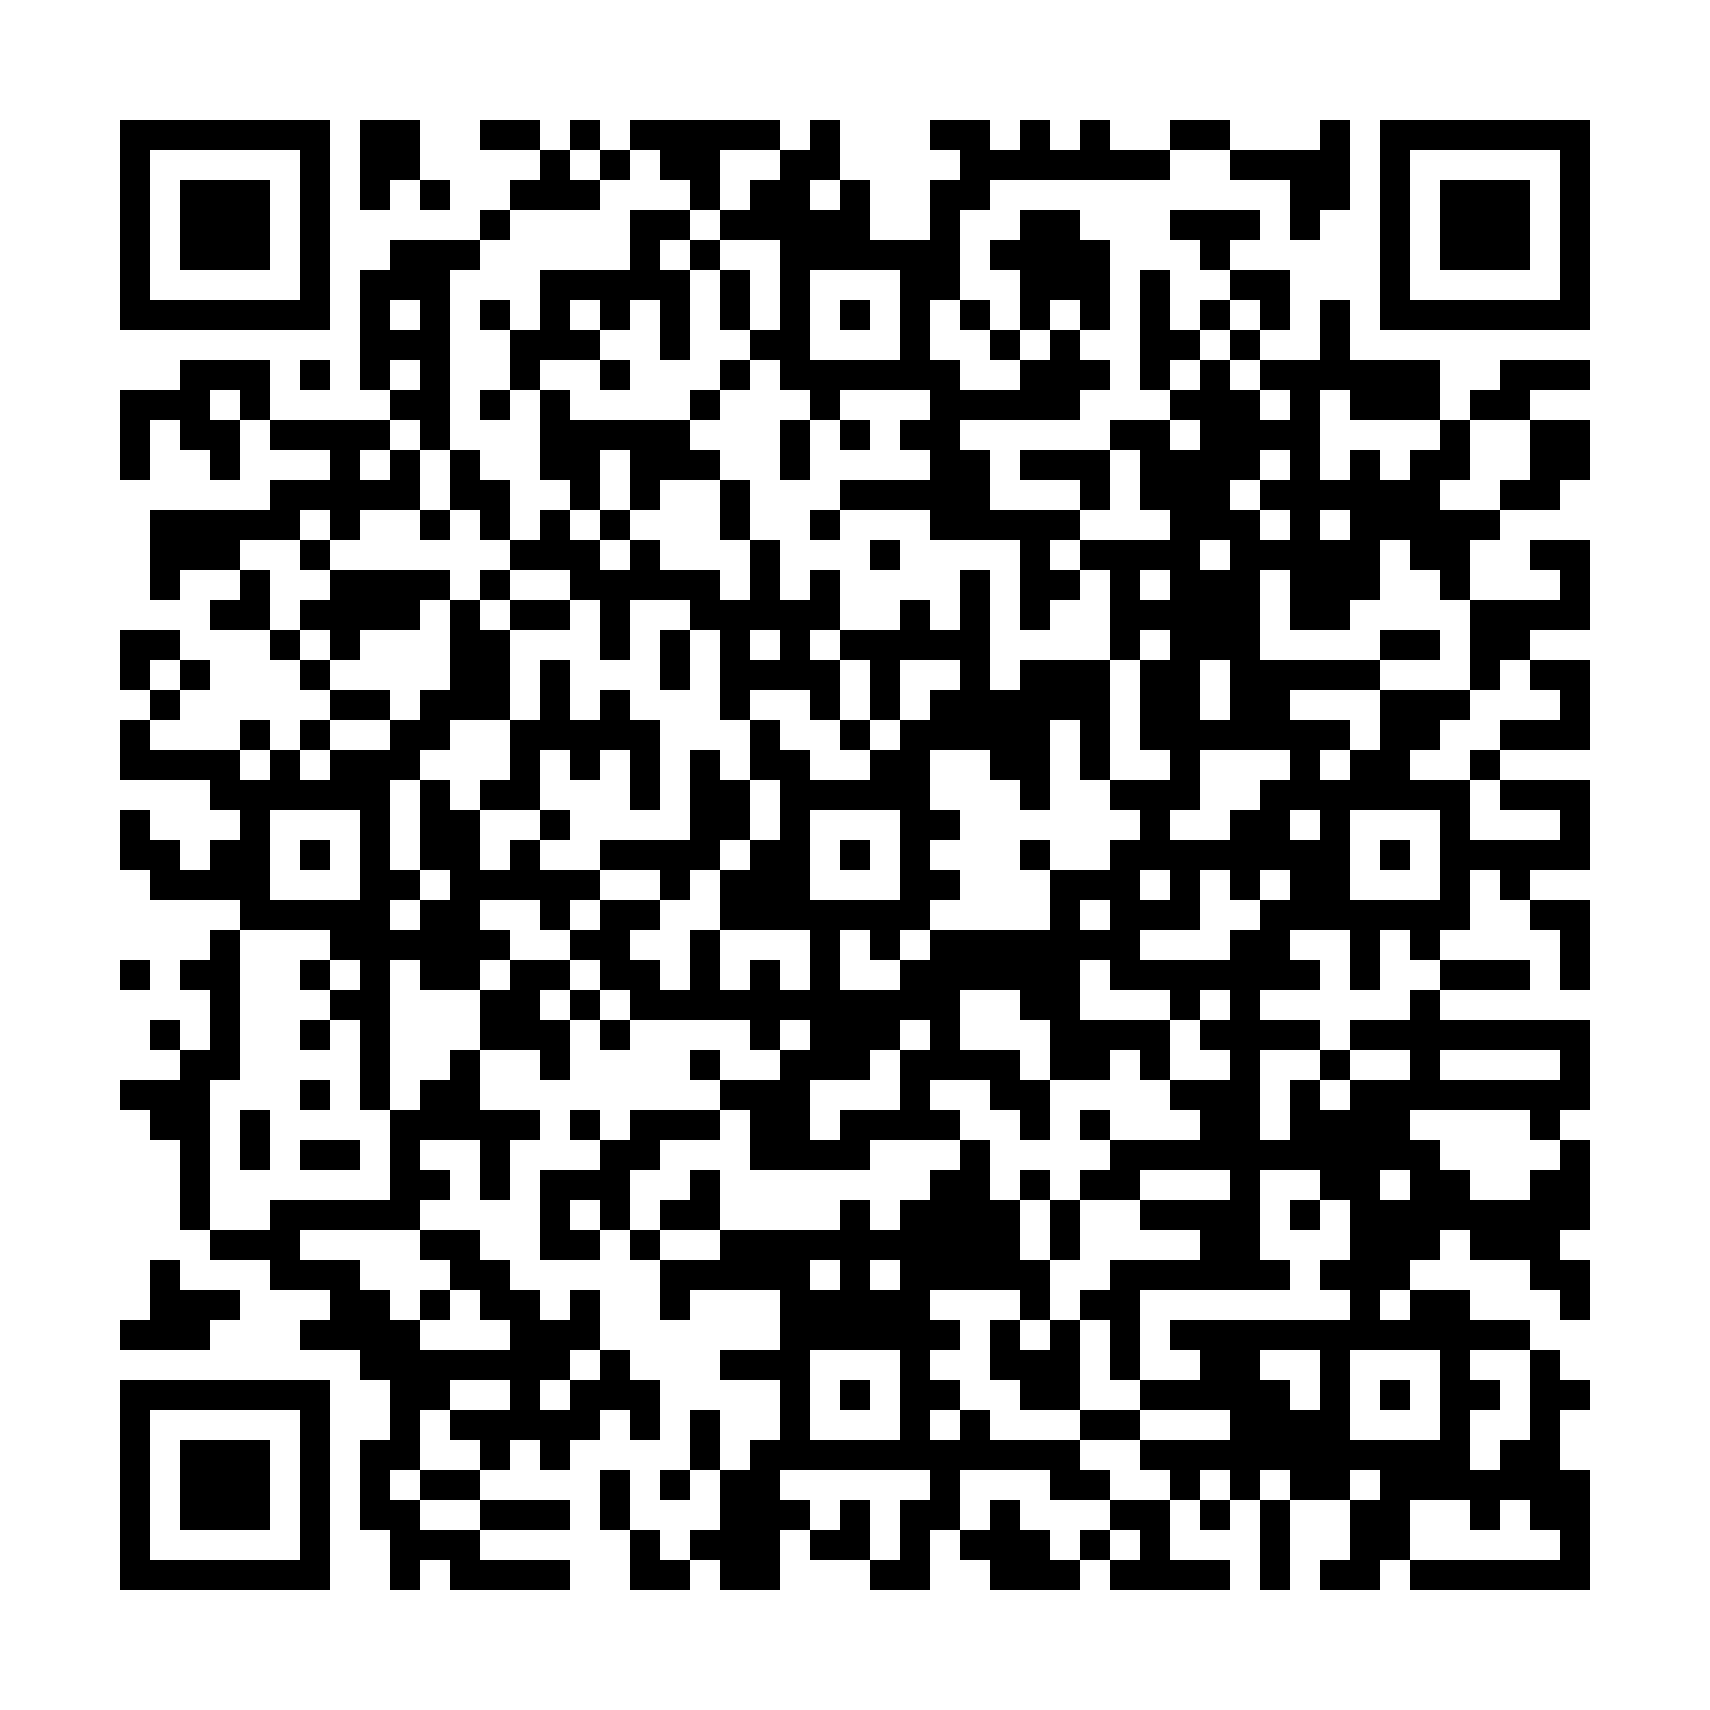
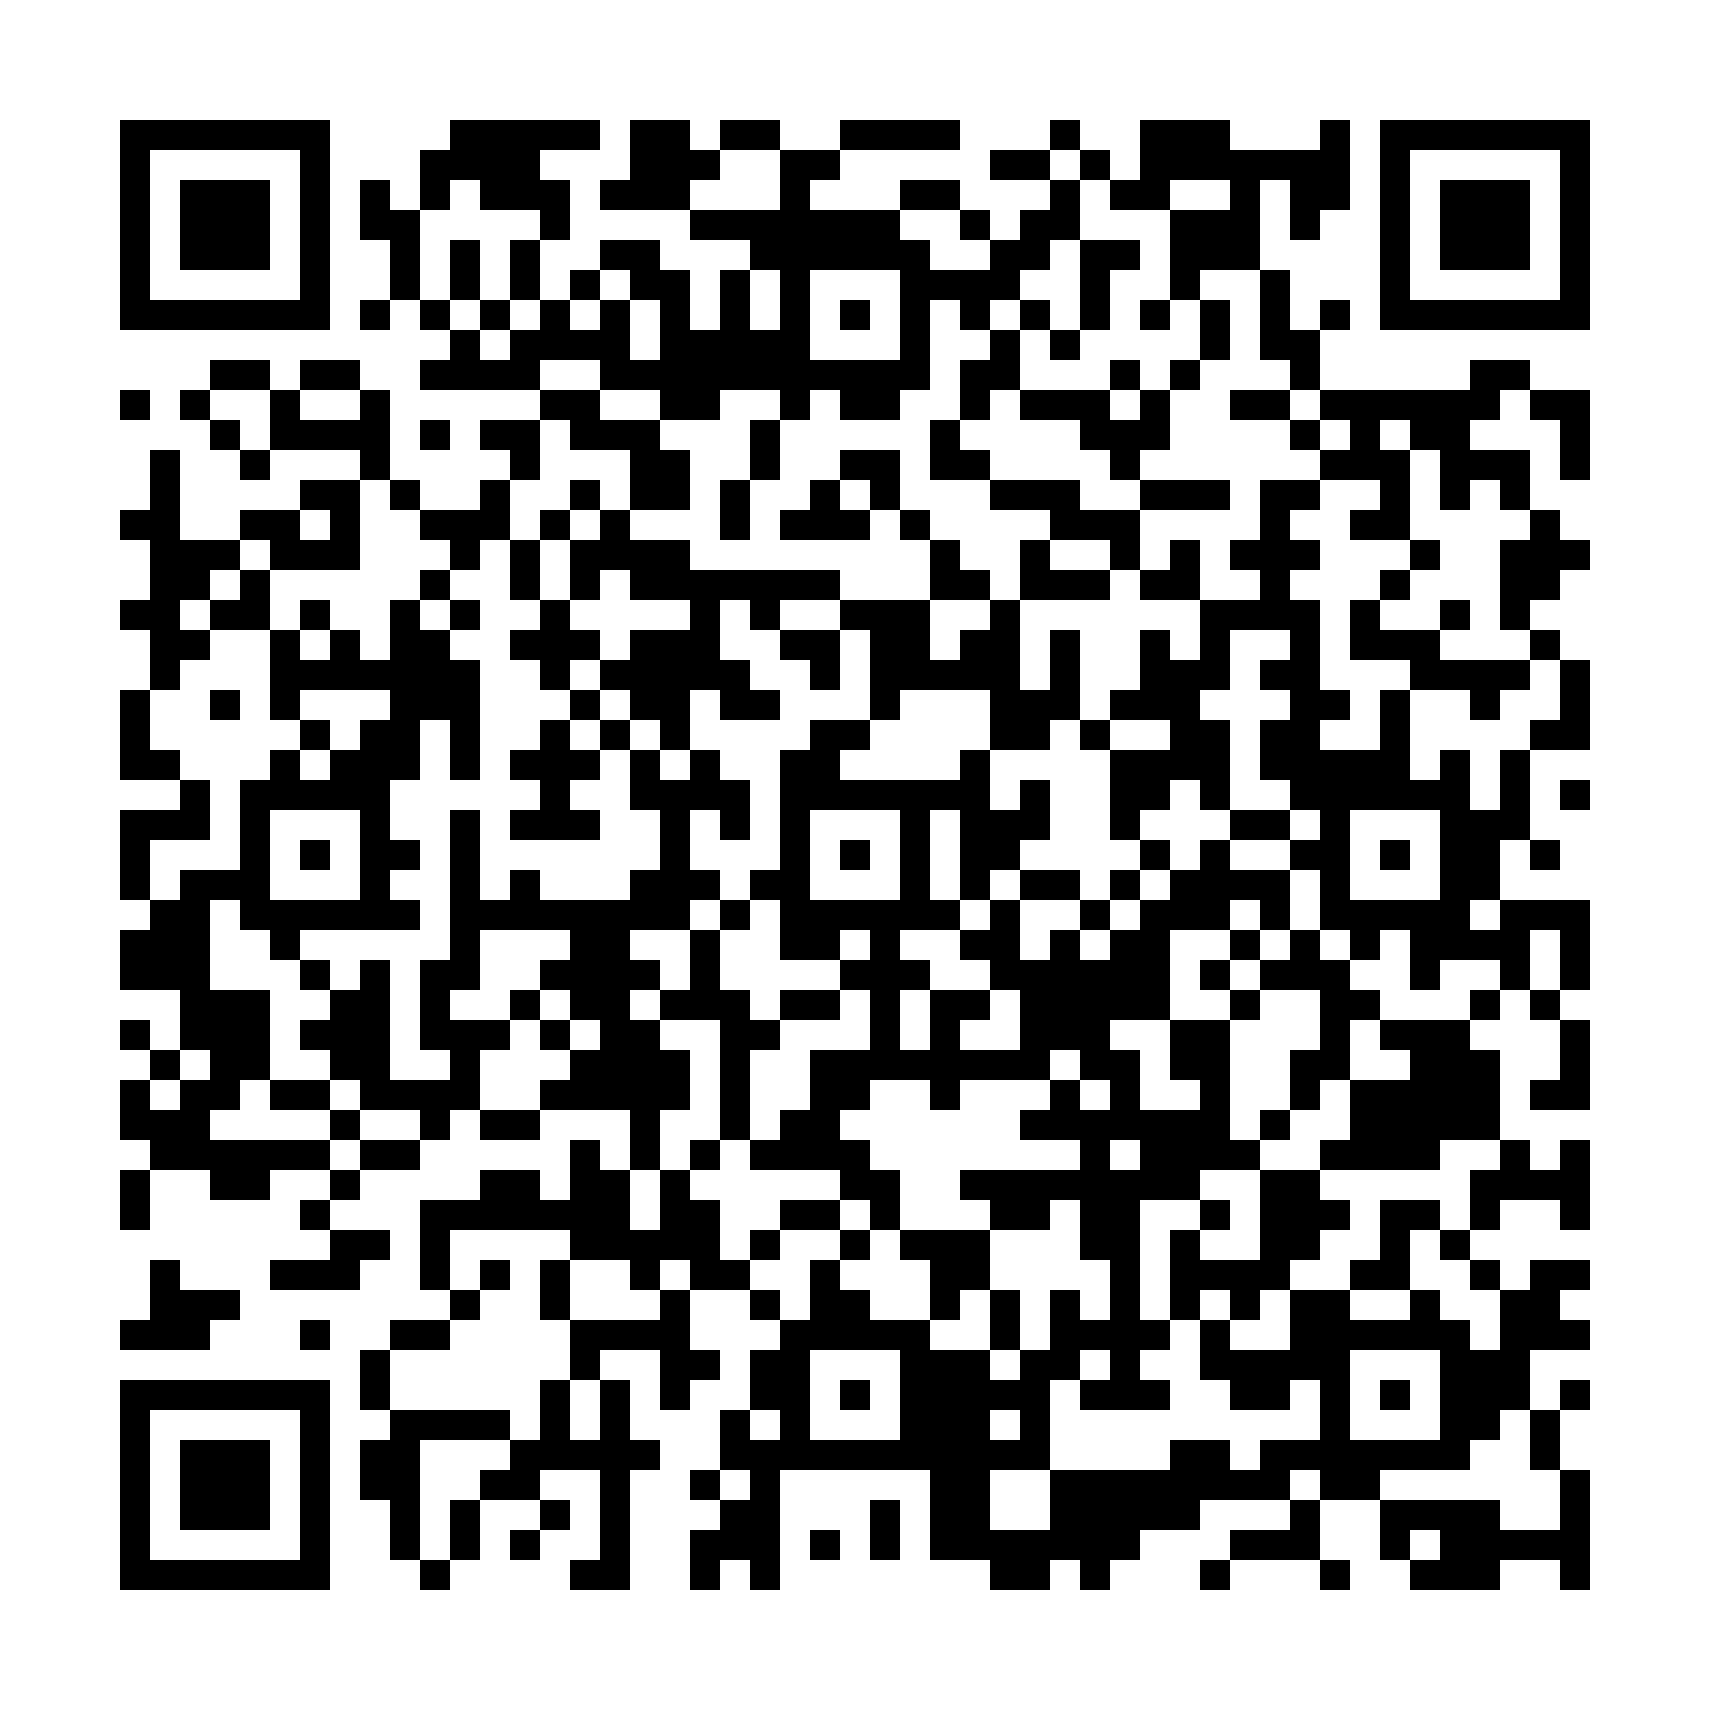
チラシ用QRの飛び先をトップページに変更
Claude-Session: https://claude.ai/code/session_01UbPQvDTT28D33dpwewdXvk

Changed region(s): [[0.062, 0.062, 0.9298, 0.9298]]

diff --git a/tools/make_qr.py b/tools/make_qr.py
@@ -1,11 +1,11 @@
-# チラシ用QRコードを生成する。実行: python3 tools/make_qr.py .   （出力先 tools/qr/）
+# チラシ用QRコードを生成する（トップページへ）。実行: python3 tools/make_qr.py .   （出力先 tools/qr/）
 # 必要: pip install qrcode pillow。文字入り版は tools/fonts/Zen900.ttf, Zen700.ttf, Zen500.ttf が必要
 import sys, os, qrcode, qrcode.image.svg
 from qrcode.constants import ERROR_CORRECT_H
 from PIL import Image, ImageDraw, ImageFont
 root = sys.argv[1] if len(sys.argv) > 1 else '.'
 out = os.path.join(root, 'tools', 'qr'); os.makedirs(out, exist_ok=True)
-URL = 'https://chocotcha.jp/join.html?utm_source=flyer&utm_medium=qr&utm_campaign=festa2027'
+URL = 'https://chocotcha.jp/?utm_source=flyer&utm_medium=qr&utm_campaign=festa2027'
 def make(ec, box, border, fill):
     q = qrcode.QRCode(error_correction=ec, box_size=box, border=border); q.add_data(URL); q.make(fit=True)
     return q.make_image(fill_color=fill, back_color='white').convert('RGB')
@@ -21,7 +21,7 @@ except OSError:
 qr = make(ERROR_CORRECT_H, 24, 2, '#5a2a17'); W = qr.width + 80; H = qr.height + 230
 c = Image.new('RGB', (W, H), 'white'); d = ImageDraw.Draw(c)
 d.rounded_rectangle((12, 12, W - 12, H - 12), radius=28, outline='#5a2a17', width=6)
-for y, t, f, col in [(40, '出店・出演の申込みはこちら', f1, '#5a2a17'), (110 + qr.height + 8, 'やまぐちチョコっちゃ!!フェスタ 2027 公式サイト', f2, '#5a2a17'), (110 + qr.height + 56, 'chocotcha.jp', f3, '#70584e')]:
+for y, t, f, col in [(40, '公式サイトはこちら', f1, '#5a2a17'), (110 + qr.height + 8, 'やまぐちチョコっちゃ!!フェスタ 2027 公式サイト', f2, '#5a2a17'), (110 + qr.height + 56, 'chocotcha.jp', f3, '#70584e')]:
     d.text(((W - d.textlength(t, font=f)) / 2, y), t, fill=col, font=f)
 c.paste(qr, ((W - qr.width) // 2, 110)); c.save(f'{out}/qr-flyer-card.png')
 print('ok', out)

diff --git a/CLAUDE.md b/CLAUDE.md
@@ -30,7 +30,7 @@ index.html / enjoy.html / timetable.html / booth.html / join.html / access.html 
 style.css  main.js  ogp.png  ロゴ・アイコン画像（直下）  sitemap.xml  robots.txt  CNAME  .nojekyll
 tools/build.py     … 8ページのHTMLを生成する正本。HTMLは直接編集しない
 tools/make_ogp.py  … ogp.png を生成（tools/fonts/ にフォント4ファイルが必要。README参照）
-tools/make_qr.py   … チラシ用QR（tools/qr/）を生成。URLはチラシ用UTM付き join.html
+tools/make_qr.py   … チラシ用QR（tools/qr/）を生成。URLはチラシ用UTM付きのトップページ
 tools/README.txt   … 使い方と公開の流れ
 README.txt         … サイトの構成と更新時の注意（人向け）
 ```
@@ -69,7 +69,7 @@ README.txt         … サイトの構成と更新時の注意（人向け）
 - Cloudflare Web Analytics: 各ページ `</body>` 直前のスニペット（Cookie不使用）。個人情報の案内に利用の旨を記載済み
 - Google アナリティクス（GA4）: 測定ID `G-MVPER0MPET`（`tools/build.py` の `GA_ID`）。`main.js` がリンクのクリックをイベント送信（click_mail / click_instagram / click_map / go_apply / click_outbound）。個人情報の案内に送信先・内容・目的を記載済み。Search Console とは GA4「サービス間のリンク」で連携済み（2026-10-29）
 - Bing Webmaster Tools: Search Console からインポートで登録済み
-- UTM: Instagram プロフィール `?utm_source=instagram&utm_medium=profile&utm_campaign=festa2027`、チラシQR `join.html?utm_source=flyer&utm_medium=qr&utm_campaign=festa2027`、Googleフォーム `?utm_source=google_form&utm_medium=form&utm_campaign=festa2027`
+- UTM: Instagram プロフィール `?utm_source=instagram&utm_medium=profile&utm_campaign=festa2027`、チラシQR `?utm_source=flyer&utm_medium=qr&utm_campaign=festa2027`（トップへ）、Googleフォーム `?utm_source=google_form&utm_medium=form&utm_campaign=festa2027`
 - 独自ドメイン: Xserverドメインで取得（手順書は Claude Docs）。自動更新・2段階認証を推奨
 
 ## 残っている作業
